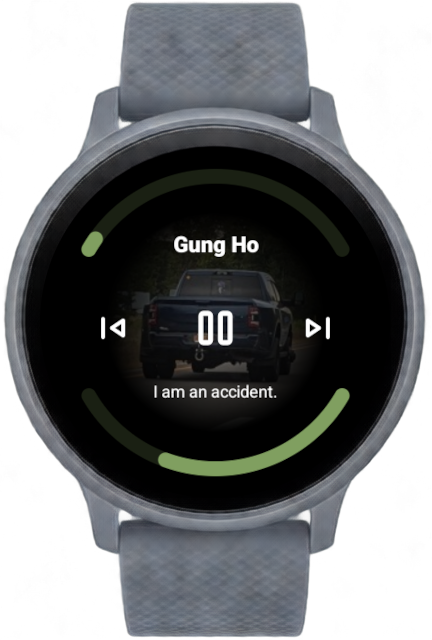
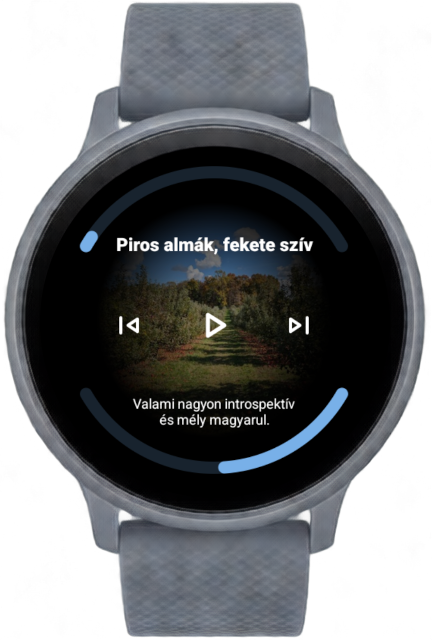
Update README

Changed region(s): [[0.1806, 0.25, 0.8125, 0.75]]

diff --git a/README.md b/README.md
@@ -1,10 +1,10 @@
 # Cassette
 
 <div align="center">
-  <img src="imgs/img-1.png" width="150px"/>
   <img src="imgs/img-2.png" width="150px"/>
   <img src="imgs/img-3.png" width="150px"/>
   <img src="imgs/img-4.png" width="150px"/>
+  <img src="imgs/img-5.png" width="150px"/>
 </div>
 
 **Cassette is BETA software. I'm pretty sure I squashed the bug where it would suddenly play things at 4x volume, but use with caution**
